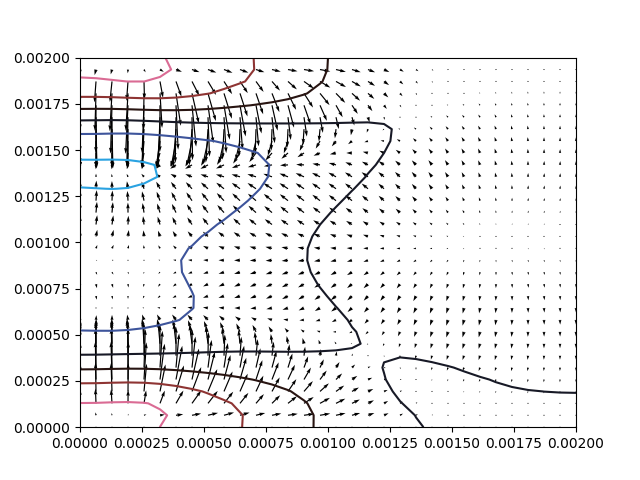
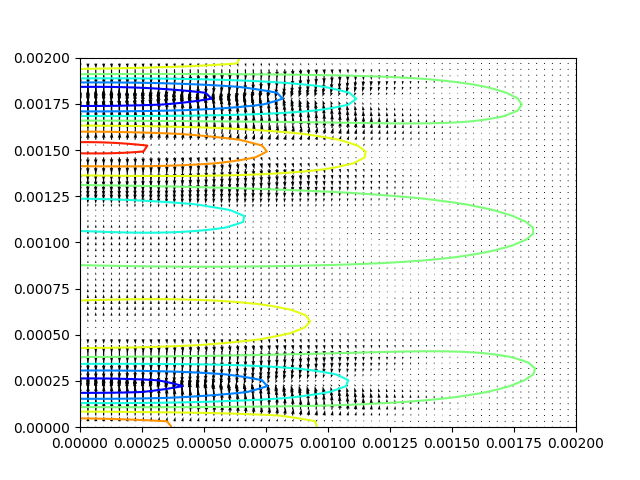
Setted all up to the previous version.
The current commit is so similar to ae63b2d94c3fe5c45b35715e9b74e51a86440e3b (after all ready to check by professor). TO BE CHECKED JACOBI METHOD.

Changed region(s): [[0.125, 0.125, 0.9062, 0.9062], [0.8125, 0.5938, 0.8438, 0.625], [0.8125, 0.25, 0.8438, 0.2812]]

diff --git a/fluid_solver.py b/fluid_solver.py
@@ -8,7 +8,7 @@ def DDx(M,dx,Bound_left = 0,Bound_right = 0):
     for j in range(1,J-1):
         if j == J-1:
             #ddxM[:,j] = (Bound_right-2*M[:,j]+M[:,j-1])/dx**2
-            ddxM[:,j] = 0 ## Intuition. No curvature on the derivative because free wall
+            ddxM[:,j] = ddxM[:,j-1] ## Same derivative that at lefht, free wall
         elif j == 0:
             ddxM[:,j] = (M[:,j+1]-2*M[:,j]+Bound_left)/dx**2
         else:
@@ -131,6 +131,7 @@ class pde_fluid_solver():
         self.Nt = N_time
         self.dim = fluid_ic.dimensions
         self.dt = dt
+        self.X,self.Y = np.meshgrid(np.linspace(0,Lx,self.dim[1]),np.linspace(0,Ly,self.dim[0]))
         self.dx = Lx/self.dim[0]
         self.dy = Ly/self.dim[0]
         self.ux= fluid_ic.ux[:,:,np.newaxis]
@@ -148,7 +149,7 @@ class pde_fluid_solver():
         if Cy > 1 or Cx > 1:
             TypeError('Invalid C factor. You need dx/dt of the order of velocities. The stabilities parameters are  [Fx,Fy] = [%1.3f,%1.3f] [Cx,Cy]] =[%1.3f,%1.3f]'%(Fx,Fy,Cx,Cy))
         print(Fore.BLUE + 'Solver pde class created successfully. The stabilities parameters are  [Fx,Fy] = [%1.3f,%1.3f] [Cx,Cy]] =[%1.3f,%1.3f]'%(Fx,Fy,Cx,Cy) + Style.RESET_ALL)
-    def presure_solver(self,left_side,right_side,precision = 0.05,max_reps = np.inf):
+    def presure_solver(self,left_side,right_side,precision = 0.05,max_reps = 10000):
         p = left_side.copy()
         p_new = p.copy()
         not_good = True
@@ -157,7 +158,7 @@ class pde_fluid_solver():
         count = 0
         old_rel_error = np.nan
         while not_good and count < max_reps:
-            for k in range(1,repeats):
+            for k in range(repeats):
                     #simpler version commented, but boundary condition in p=p0
                     #for i in range(1,I-1):
                     #    for j in range(1,J-1):
@@ -242,16 +243,27 @@ class pde_fluid_solver():
         duxuy = np.zeros(self.dim)
         ## Second step simulation !!!
         for k in tqdm(range(1,N)):
+
+            ## We only calculate 1 time ux*uy
             uxy = ux[:,:,k-1]*uy[:,:,k-1]
+
+            ## We only derivate one time the tensor ux uy
             duxuy = Dx(uxy,dx)+Dy(uxy,dy,Bound_up=bc_x_up*bc_y_up,Bound_down=bc_x_down*bc_y_down)
+
+            ## Step 1 calculate u_star
             ux_s  = ux[:,:,k-1]-dt*duxuy
             uy_s = uy[:,:,k-1]-dt*duxuy
+
+            ## Step 2 calculate u_star_star
             ux_ss = ux_s+dt*visc*(DDx_nobc(ux_s,dx)+DDy_nobc(ux_s,dy))
             uy_ss = uy_s+dt*visc*(DDx_nobc(ux_s,dx)+DDy_nobc(uy_s,dy))
-            p[:,:,k]  = self.presure_solver(p[:,:,k-1],dens*dt**-1*(Dx_nobc(ux_ss,dx)+Dy_nobc(uy_ss,dy)),max_reps=repeat_jac,precision=precision_jac)
+
+            ## Step 3 impose incompresibility 
+            p[:,:,k]  = self.presure_solver(p[:,:,k-1],dens*(Dx_nobc(ux_ss,dx)+Dy_nobc(uy_ss,dy)/dt),max_reps=repeat_jac,precision=precision_jac)
             ux[:,:,k] = ux_ss-dt*dens**-1*Dx_nobc(p[:,:,k],dx)
             uy[:,:,k] = uy_ss-dt*dens**-1*Dy_nobc(p[:,:,k],dy)
-            # Boundary conditions
+
+            # Extra step. No boundary condition in derivatives. We impose here the boundary conditions
             ux[0,:,k]  = bc_x_up
             ux[-1,:,k] = bc_x_down
             uy[0,:,k]  = bc_y_up

diff --git a/main.py b/main.py
@@ -6,11 +6,11 @@ from fluid_solver import *
 
 u_slot = 1
 u_coflow = 0.5
-N_space = 248
-N_time = 15
+N_space = 64
+N_time = 21
 Lx,Ly = 2e-3,2e-3
-dt = 25*(np.mean([u_slot,u_coflow])/Lx*N_space**2)**-1
-print(dt)
+dt = 1e-8
+
 [X,Y] = np.meshgrid(np.linspace(0,Lx,N_space),np.linspace(0,Lx,N_space))
 up_bc_uy = np.ones(N_space)
 down_bc_uy = np.ones(N_space)
@@ -18,11 +18,11 @@ down_bc_uy = np.ones(N_space)
 ## Particula BC of the problem
 for k in range(N_space):
     if k < N_space/4:
-        up_bc_uy[k] = -u_slot
-        down_bc_uy[k] = u_slot
+        up_bc_uy[k] = u_slot
+        down_bc_uy[k] = -u_slot
     elif N_space/4 <= k and k < N_space/2:
-        up_bc_uy[k] = -u_coflow
-        down_bc_uy[k] = u_coflow
+        up_bc_uy[k] = u_coflow
+        down_bc_uy[k] = -u_coflow
     else:
         up_bc_uy[k] = 0
         down_bc_uy[k] = 0
@@ -34,10 +34,10 @@ down_bc_ux = np.zeros(N_space)
 
 u0x = np.zeros([N_space,N_space])
 u0y = np.zeros([N_space,N_space])
-u0y[0,:]=down_bc_uy
-u0y[-1,:]=up_bc_uy
-u0x[0,:]=down_bc_ux
-u0x[-1,:]=up_bc_ux
+u0y[0,:]=up_bc_uy
+u0y[-1,:]=down_bc_uy
+u0x[0,:]=up_bc_ux
+u0x[-1,:]=down_bc_ux
 p0 = 101225*np.ones([N_space,N_space])
 
 
@@ -48,14 +48,14 @@ main_fluid = fluid_initial_condition(u_0x = u0x,
                 viscosity = viscosity,
                 density = density)
 
-
+plt.show()
 bc_ux = boundary_condition(up_bc_ux,down_bc_ux)
 bc_uy = boundary_condition(up_bc_uy,down_bc_uy)
 
 solver = pde_fluid_solver(main_fluid,bc_ux,bc_uy,N_time,dt,Lx,Ly)
 
 #solver.presure_solver(np.ones([N_space,N_space]),precision = 0.05,max_reps = 1000)
-solver.solve_navier_stokes(N_time,precision_jac = 0.05,repeat_jac = 150)
+solver.solve_navier_stokes(N_time,precision_jac = 0.15,repeat_jac = 1000)
 
 
 # Change this to the path on your oun laptop
@@ -63,7 +63,7 @@ path = '/Users/Pacopol/Desktop/Plasma Physics and Fusion Master/Numerical Method
 
 for k in np.arange(1,N_time,1):
     fig = plt.figure()
-    plt.contour(X,Y,solver.p[:,:,k])
+    plt.contour(X,Y,solver.p[:,:,k],cmap = 'jet')
     plt.colorbar
     plt.quiver(X,Y,solver.ux[:,:,k],solver.uy[:,:,k])
     fig.savefig(path + '/' + 'frame%i.png'%(k))
